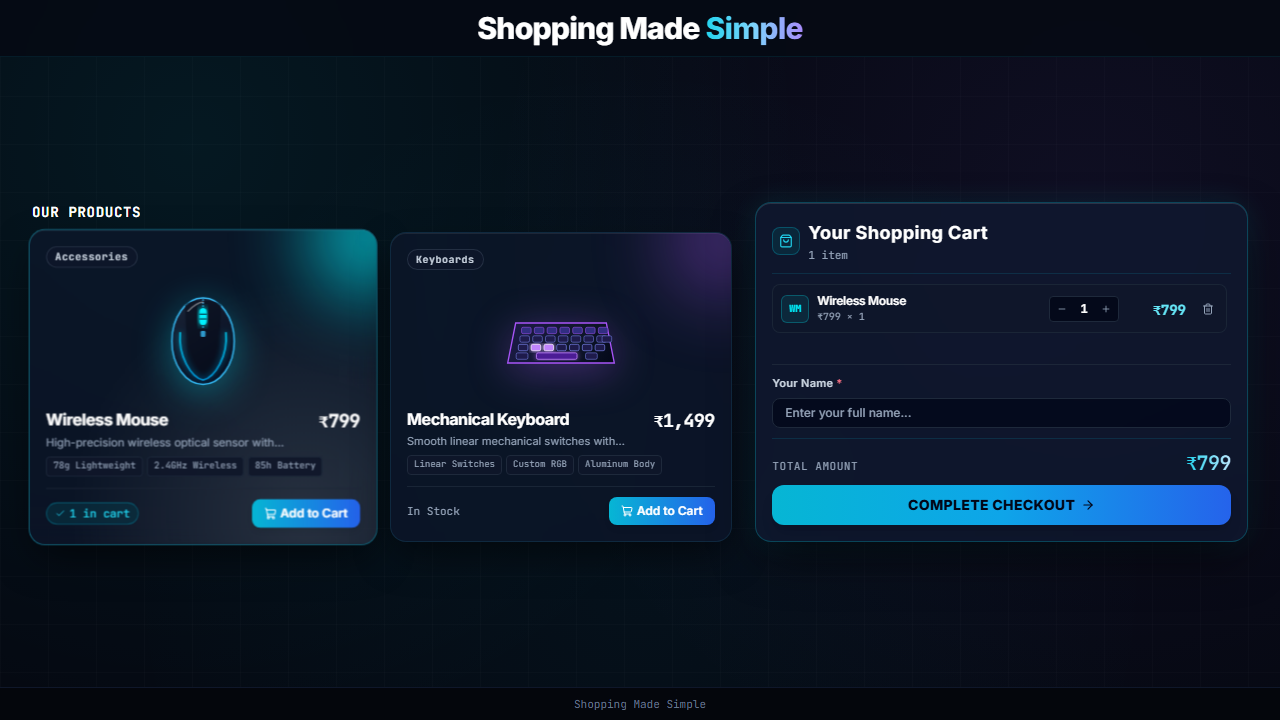
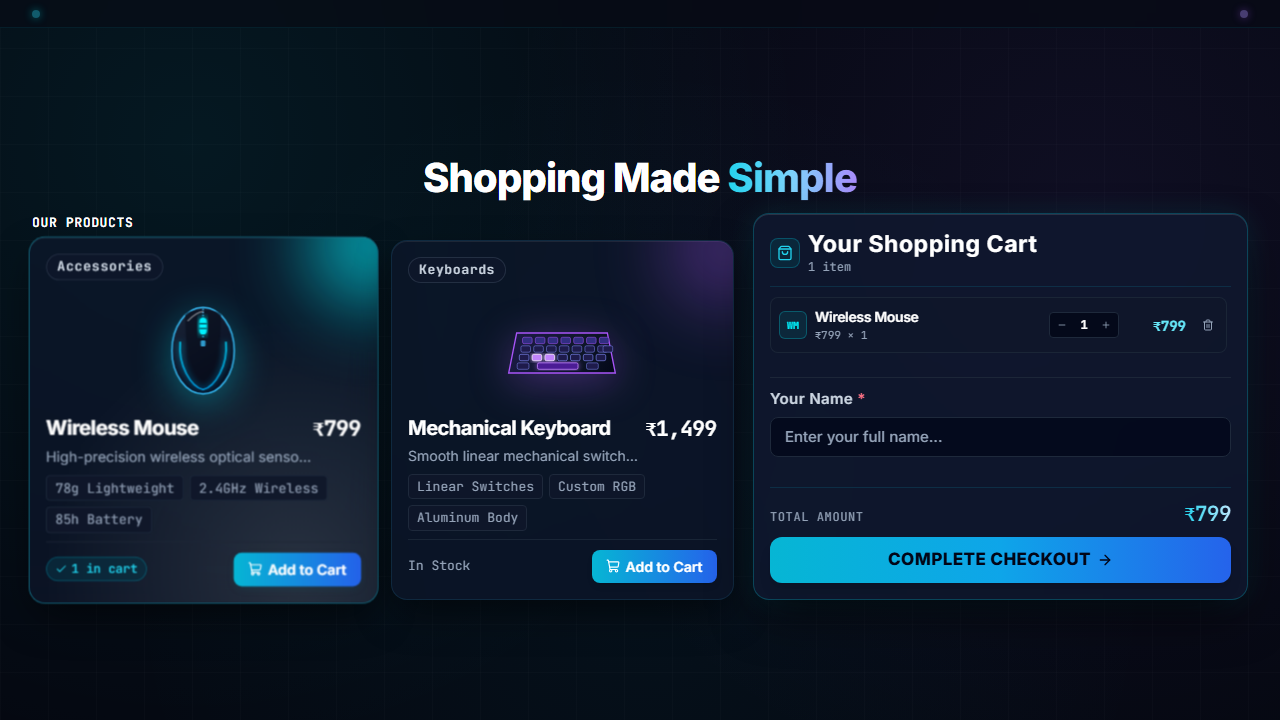
style(layout): center title below top bar, apply exact typography font sizes, remove footer

diff --git a/src/components/Cart.jsx b/src/components/Cart.jsx
@@ -21,13 +21,13 @@ export default function Cart({
         <div className="flex items-center justify-between pb-2.5 border-b border-cyan-500/15">
           <div className="flex items-center space-x-2">
             <div className="p-1.5 rounded-lg bg-cyan-950/60 border border-cyan-500/30 text-cyan-400">
-              <ShoppingBag className="w-3.5 h-3.5" />
+              <ShoppingBag className="w-4 h-4" />
             </div>
             <div>
-              <h2 className="text-base sm:text-lg font-bold text-white tracking-wide">
+              <h2 className="text-[23px] font-bold text-white tracking-wide leading-tight">
                 Your Shopping Cart
               </h2>
-              <p className="text-[11px] text-slate-400 font-mono">
+              <p className="text-[12px] text-slate-400 font-mono">
                 {totalUnits} {totalUnits === 1 ? 'item' : 'items'}
               </p>
             </div>
@@ -44,8 +44,8 @@ export default function Cart({
               <div className="w-8 h-8 rounded-full bg-slate-900 flex items-center justify-center text-slate-400 mb-1 border border-slate-800">
                 <ShoppingBag className="w-4 h-4" />
               </div>
-              <p className="text-xs font-semibold text-slate-300">Your cart is empty</p>
-              <p className="text-[11px] text-slate-400 mt-0.5 max-w-xs">
+              <p className="text-[14px] font-semibold text-slate-300">Your cart is empty</p>
+              <p className="text-[12px] text-slate-400 mt-0.5 max-w-xs">
                 Select products from our store to proceed with checkout.
               </p>
             </div>
@@ -73,11 +73,11 @@ export default function Cart({
                     <div>
                       <h4
                         data-testid={`cart-item-name-${item.numericId}`}
-                        className="text-xs font-semibold text-white tracking-tight"
+                        className="text-[14px] font-semibold text-white tracking-tight"
                       >
                         {item.name}
                       </h4>
-                      <p className="text-[10px] font-mono text-slate-400">
+                      <p className="text-[11px] font-mono text-slate-400">
                         {item.formattedPrice} × {item.quantity}
                       </p>
                     </div>
@@ -117,7 +117,7 @@ export default function Cart({
                     <div className="text-right min-w-[55px]">
                       <span
                         data-testid={`line-total-${item.numericId}`}
-                        className="font-mono font-bold text-xs sm:text-sm text-cyan-300"
+                        className="font-mono font-bold text-[14px] text-cyan-300"
                       >
                         ₹{lineTotal.toLocaleString('en-IN')}
                       </span>
@@ -144,7 +144,7 @@ export default function Cart({
         <div className="pt-2.5 border-t border-slate-800/90 space-y-1.5">
           <label
             htmlFor="customer-name"
-            className="block text-[11px] font-semibold tracking-wide text-slate-300"
+            className="block text-[15px] font-semibold tracking-wide text-slate-300"
           >
             Your Name <span className="text-rose-400">*</span>
           </label>
@@ -159,7 +159,7 @@ export default function Cart({
               placeholder="Enter your full name..."
               value={customerName}
               onChange={(e) => onCustomerNameChange(e.target.value)}
-              className="w-full px-3 py-1.5 rounded-lg bg-slate-950/70 border border-slate-800 text-white placeholder-slate-400 text-xs focus:outline-none focus:border-cyan-400 focus:ring-1 focus:ring-cyan-400/50 transition-all font-medium"
+              className="w-full px-3.5 py-2 rounded-lg bg-slate-950/70 border border-slate-800 text-white placeholder-slate-400 text-[15px] focus:outline-none focus:border-cyan-400 focus:ring-1 focus:ring-cyan-400/50 transition-all font-medium"
             />
           </div>
 
@@ -168,7 +168,7 @@ export default function Cart({
             <div
               data-testid="validation-error"
               role="alert"
-              className="flex items-center space-x-1.5 p-2 rounded-lg bg-rose-950/40 border border-rose-500/40 text-rose-300 text-[11px] font-medium animate-fadeIn"
+              className="flex items-center space-x-1.5 p-2 rounded-lg bg-rose-950/40 border border-rose-500/40 text-rose-300 text-xs font-medium animate-fadeIn"
             >
               <AlertCircle className="w-3.5 h-3.5 flex-shrink-0 text-rose-400" />
               <span>{validationError}</span>
@@ -181,12 +181,12 @@ export default function Cart({
       <div className="pt-2.5 mt-2.5 border-t border-cyan-500/15 space-y-2">
         {/* Order Grand Total */}
         <div className="flex items-baseline justify-between">
-          <span className="text-[11px] font-mono uppercase text-slate-400 tracking-wider">
+          <span className="text-[12px] font-mono uppercase text-slate-400 tracking-wider">
             Total Amount
           </span>
           <span
             data-testid="order-total"
-            className="text-lg sm:text-xl font-black font-mono tracking-tight text-transparent bg-clip-text bg-gradient-to-r from-cyan-400 to-sky-200"
+            className="text-[21px] font-black font-mono tracking-tight text-transparent bg-clip-text bg-gradient-to-r from-cyan-400 to-sky-200"
           >
             ₹{totalAmount.toLocaleString('en-IN')}
           </span>
@@ -199,7 +199,7 @@ export default function Cart({
           aria-label="Complete Checkout"
           disabled={isSubmitting}
           onClick={onCheckout}
-          className={`w-full py-2.5 px-4 rounded-xl font-bold text-xs sm:text-sm tracking-wide transition-all duration-300 flex items-center justify-center space-x-1.5 shadow-lg ${
+          className={`w-full py-2.5 px-4 rounded-xl font-bold text-[16px] sm:text-[17px] tracking-wide transition-all duration-300 flex items-center justify-center space-x-1.5 shadow-lg ${
             isSubmitting
               ? 'opacity-60 cursor-not-allowed bg-slate-800 text-slate-400'
               : 'bg-gradient-to-r from-cyan-500 via-sky-500 to-blue-600 text-slate-950 hover:from-cyan-400 hover:via-sky-400 hover:to-blue-500 hover:shadow-[0_0_20px_rgba(0,242,254,0.4)] active:scale-[0.98]'
@@ -213,7 +213,7 @@ export default function Cart({
           ) : (
             <>
               <span className="text-slate-950 font-extrabold uppercase">Complete Checkout</span>
-              <ArrowRight className="w-3.5 h-3.5 text-slate-950" />
+              <ArrowRight className="w-4 h-4 text-slate-950" />
             </>
           )}
         </button>

diff --git a/src/components/ProductCard3D.jsx b/src/components/ProductCard3D.jsx
@@ -70,7 +70,7 @@ export default function ProductCard3D({ product, onAddToCart, inCartQuantity = 0
       onMouseEnter={handleMouseEnter}
       onMouseLeave={handleMouseLeave}
       style={transformStyle}
-      className="relative group rounded-2xl p-3.5 sm:p-4 glass-panel hover:border-cyan-400/40 transition-colors duration-300 flex flex-col justify-between overflow-hidden shadow-neo-card h-full"
+      className="relative group rounded-2xl p-4 sm:p-4.5 glass-panel hover:border-cyan-400/40 transition-colors duration-300 flex flex-col justify-between overflow-hidden shadow-neo-card h-full"
     >
       {/* Glare Dynamic Overlay */}
       {!prefersReducedMotion && (
@@ -91,7 +91,7 @@ export default function ProductCard3D({ product, onAddToCart, inCartQuantity = 0
 
       {/* Top Meta */}
       <div className="relative z-10 flex items-center justify-between mb-1">
-        <span className="text-[10px] font-mono tracking-wider font-semibold px-2 py-0.5 rounded-full bg-slate-900/80 border border-slate-700/60 text-slate-300">
+        <span className="text-[13px] font-mono tracking-wider font-semibold px-2.5 py-0.5 rounded-full bg-slate-900/80 border border-slate-700/60 text-slate-300">
           {product.category}
         </span>
       </div>
@@ -194,16 +194,16 @@ export default function ProductCard3D({ product, onAddToCart, inCartQuantity = 0
           <div>
             <h3
               data-testid={`product-name-${product.numericId}`}
-              className="text-sm sm:text-base font-bold text-white tracking-tight"
+              className="text-[20px] font-bold text-white tracking-tight"
             >
               {product.name}
             </h3>
-            <p className="text-[11px] text-slate-400 mt-0.5 line-clamp-1">{product.tagline}</p>
+            <p className="text-[14px] text-slate-400 mt-0.5 line-clamp-1">{product.tagline}</p>
           </div>
           <div className="text-right">
             <span
               data-testid={`product-price-${product.numericId}`}
-              className="text-base sm:text-lg font-black font-mono tracking-tight text-white block"
+              className="text-[21px] font-black font-mono tracking-tight text-white block"
             >
               {product.formattedPrice}
             </span>
@@ -211,11 +211,11 @@ export default function ProductCard3D({ product, onAddToCart, inCartQuantity = 0
         </div>
 
         {/* Specs Pills */}
-        <div className="flex flex-wrap gap-1 pt-0.5">
+        <div className="flex flex-wrap gap-1.5 pt-1">
           {product.specs.map((spec, i) => (
             <span
               key={i}
-              className="text-[9px] font-mono px-1.5 py-0.5 rounded bg-slate-900/90 text-slate-400 border border-slate-800"
+              className="text-[13px] font-mono px-2 py-0.5 rounded bg-slate-900/90 text-slate-400 border border-slate-800"
             >
               {spec}
             </span>
@@ -227,12 +227,12 @@ export default function ProductCard3D({ product, onAddToCart, inCartQuantity = 0
       <div className="relative z-10 pt-2.5 mt-2 border-t border-slate-800/80 flex items-center justify-between">
         <div className="flex items-center space-x-1">
           {inCartQuantity > 0 ? (
-            <span className="inline-flex items-center space-x-1 text-[11px] font-mono font-medium text-cyan-400 bg-cyan-950/60 px-2 py-0.5 rounded-full border border-cyan-500/30">
-              <Check className="w-2.5 h-2.5" />
+            <span className="inline-flex items-center space-x-1 text-[12px] font-mono font-medium text-cyan-400 bg-cyan-950/60 px-2 py-0.5 rounded-full border border-cyan-500/30">
+              <Check className="w-3 h-3" />
               <span>{inCartQuantity} in cart</span>
             </span>
           ) : (
-            <span className="text-[11px] text-slate-400 font-mono">In Stock</span>
+            <span className="text-[13px] text-slate-400 font-mono">In Stock</span>
           )}
         </div>
 
@@ -240,14 +240,14 @@ export default function ProductCard3D({ product, onAddToCart, inCartQuantity = 0
           type="button"
           data-testid={`add-to-cart-${product.numericId}`}
           onClick={handleAdd}
-          className={`relative group/btn inline-flex items-center space-x-1 px-3 py-1.5 rounded-lg font-semibold text-xs transition-all duration-200 shadow-md ${
+          className={`relative group/btn inline-flex items-center space-x-1.5 px-3.5 py-1.5 rounded-lg font-semibold text-[14px] transition-all duration-200 shadow-md ${
             isAdding
               ? 'scale-95 bg-cyan-400 text-slate-950 shadow-cyan-400/40'
               : 'bg-gradient-to-r from-cyan-500 to-blue-600 text-white hover:from-cyan-400 hover:to-blue-500 hover:shadow-[0_0_15px_rgba(0,242,254,0.35)] active:scale-95'
           }`}
           aria-label={`Add ${product.name} to cart`}
         >
-          <ShoppingCart className={`w-3 h-3 transition-transform ${isAdding ? 'scale-125' : 'group-hover/btn:-translate-y-0.5'}`} />
+          <ShoppingCart className={`w-3.5 h-3.5 transition-transform ${isAdding ? 'scale-125' : 'group-hover/btn:-translate-y-0.5'}`} />
           <span>{isAdding ? 'Adding...' : 'Add to Cart'}</span>
         </button>
       </div>

diff --git a/src/App.jsx b/src/App.jsx
@@ -117,17 +117,24 @@ export default function App() {
     <div className="min-h-screen lg:h-screen lg:max-h-screen flex flex-col justify-between neo-bg-ambient selection:bg-cyan-500/30 selection:text-cyan-200 overflow-x-hidden">
       <Header />
 
-      <main className="flex-1 flex flex-col justify-center max-w-7xl w-full mx-auto px-4 sm:px-6 lg:px-8 py-3 sm:py-4 lg:py-3">
+      <main className="flex-1 flex flex-col justify-center max-w-7xl w-full mx-auto px-4 sm:px-6 lg:px-8 py-2 sm:py-2.5">
         {confirmedOrder ? (
           <OrderConfirmation order={confirmedOrder} onReset={handleResetOrder} />
         ) : (
-          <div className="space-y-3 sm:space-y-4">
-            {/* Main Grid: Products on Left/Center, Cart on Right */}
-            <div className="grid grid-cols-1 lg:grid-cols-12 gap-4 lg:gap-6 items-stretch">
+          <div className="space-y-2 sm:space-y-2.5">
+            {/* Main Title: Shopping Made Simple (Centered, 38–42px, below top bar) */}
+            <div className="text-center my-0.5 sm:my-1">
+              <h1 className="text-[36px] sm:text-[38px] lg:text-[40px] font-extrabold tracking-tight text-white leading-tight">
+                Shopping Made <span className="text-transparent bg-clip-text bg-gradient-to-r from-cyan-400 via-sky-300 to-violet-400">Simple</span>
+              </h1>
+            </div>
+
+            {/* Main Grid: Two products on Left, Shopping Cart on Right */}
+            <div className="grid grid-cols-1 lg:grid-cols-12 gap-4 sm:gap-5 items-stretch">
               {/* Products Area */}
-              <div className="lg:col-span-7 flex flex-col justify-between space-y-2">
+              <div className="lg:col-span-7 flex flex-col justify-between space-y-1.5">
                 <div className="flex items-center justify-between pb-0.5">
-                  <h2 className="text-xs sm:text-sm font-bold font-mono tracking-wider uppercase text-white">
+                  <h2 className="text-[13px] font-bold font-mono tracking-wider uppercase text-white">
                     Our Products
                   </h2>
                 </div>
@@ -164,11 +171,6 @@ export default function App() {
           </div>
         )}
       </main>
-
-      {/* Footer */}
-      <footer className="border-t border-slate-900 bg-[#04060C] py-2 text-center text-[11px] text-slate-500 font-mono flex-shrink-0">
-        <p>Shopping Made Simple</p>
-      </footer>
     </div>
   );
 }

diff --git a/src/components/Header.jsx b/src/components/Header.jsx
@@ -2,11 +2,10 @@ import React from 'react';
 
 export default function Header() {
   return (
-    <header className="relative w-full border-b border-cyan-500/10 bg-[#060A14]/90 backdrop-blur-xl sticky top-0 z-40 flex-shrink-0">
-      <div className="max-w-7xl mx-auto px-4 sm:px-6 lg:px-8 h-13 sm:h-14 flex items-center justify-center">
-        <h1 className="text-2xl sm:text-3xl font-extrabold tracking-tight text-white text-center">
-          Shopping Made <span className="text-transparent bg-clip-text bg-gradient-to-r from-cyan-400 via-sky-300 to-violet-400">Simple</span>
-        </h1>
+    <header className="relative w-full border-b border-cyan-500/10 bg-[#060A14]/60 backdrop-blur-md sticky top-0 z-40 flex-shrink-0 h-6 sm:h-7">
+      <div className="max-w-7xl mx-auto px-4 sm:px-6 lg:px-8 h-full flex items-center justify-between">
+        <div className="w-2 h-2 rounded-full bg-cyan-400/40 shadow-[0_0_8px_rgba(0,242,254,0.4)]" />
+        <div className="w-2 h-2 rounded-full bg-violet-400/40 shadow-[0_0_8px_rgba(168,85,247,0.4)]" />
       </div>
     </header>
   );
